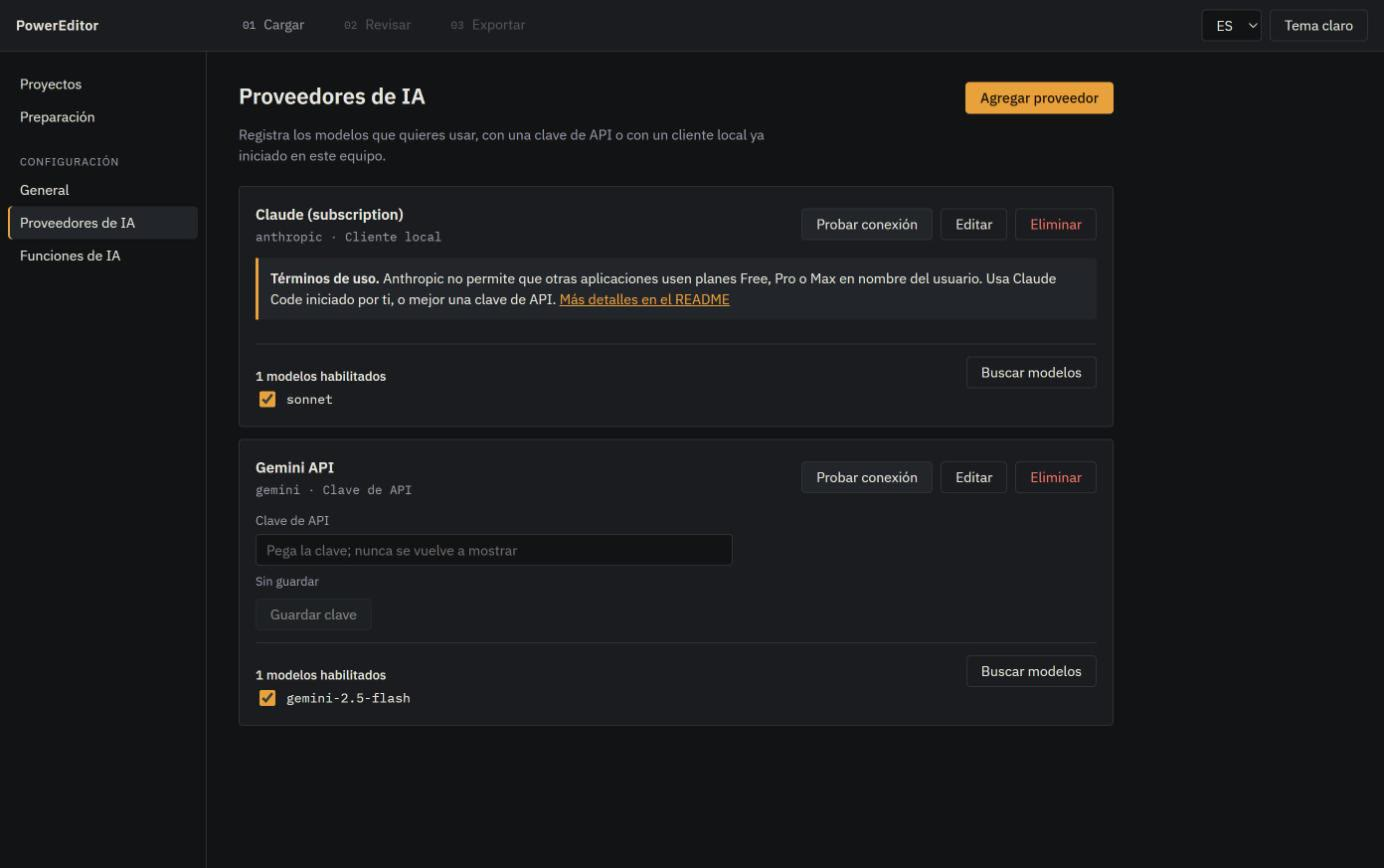
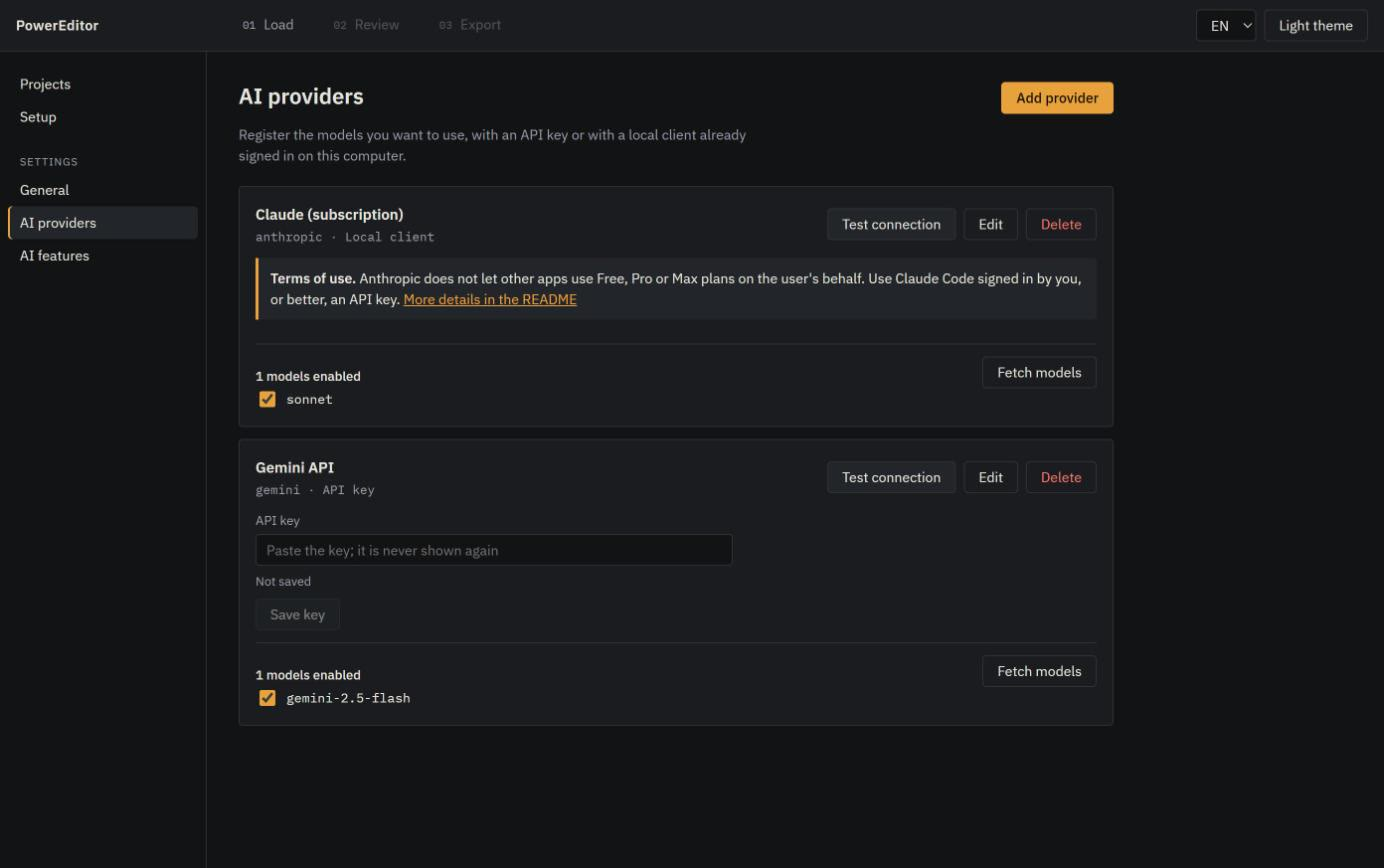
docs: retake README screenshots with the UI in English

diff --git a/README.md b/README.md
@@ -49,17 +49,17 @@ Talking-head videos (reels, tutorials, course lessons, YouTube) are cheap to rec
 
 ## Screenshots
 
-The app runs in your browser against the local PowerEditor server. The interface is in Spanish by default, with English one click away.
+The app runs in your browser against the local PowerEditor server. The interface speaks English and Spanish; the screenshots show it in English.
 
 **Review.** The timeline shows which source file is used when (one color per file), a badge on clips that have alternative takes, and the subtitle line. The preview player sits above it. Pick a clip to trim it by 0.1 s, change its speed or volume, remove or restore it, or switch to another take (the badge opens the take list; Alt-click cycles takes). Side panels set the transition of each cut or one for all cuts, the subtitle style and text, the audio (voice and music volume, a music file that ducks under speech, matched loudness between recordings) and the color (natural, warm, cool or black-and-white looks, four sliders, for every clip or one clip, and the automatic match between cameras). Every change is undoable (Ctrl+Z / Ctrl+Shift+Z) and saved automatically.
 
 ![Review step with timeline, take badge and source legend](docs/screenshots/review.jpg)
 
-**What comes out.** Frames from a real render of the demo project: karaoke subtitles follow each word, and the cut moves to the second camera on its own.
+**What comes out.** Frames from a real render of the demo project: karaoke subtitles follow each word, graphics animate in over the video (title, lower third, call to action, logo, progress bar), and the cut moves to the second camera on its own.
 
-| Source A, karaoke highlight                                                   | Source B after a cut                                                                |
-| ----------------------------------------------------------------------------- | ----------------------------------------------------------------------------------- |
-| ![Rendered frame with karaoke subtitles](docs/screenshots/output-karaoke.jpg) | ![Rendered frame from the second source](docs/screenshots/output-second-source.jpg) |
+| Title and karaoke subtitles                                                               | Lower third                                                                   | Call to action on the second camera                                                |
+| ----------------------------------------------------------------------------------------- | ----------------------------------------------------------------------------- | ---------------------------------------------------------------------------------- |
+| ![Rendered frame with a title and karaoke subtitles](docs/screenshots/output-karaoke.jpg) | ![Rendered frame with a lower third](docs/screenshots/output-lower-third.jpg) | ![Rendered frame with a call to action](docs/screenshots/output-second-source.jpg) |
 
 **Load.** Drop the recordings, pick Reel or YouTube format, optionally paste the script, and press Process.
 

diff --git a/odd/tasks/powereditor-app.md b/odd/tasks/powereditor-app.md
@@ -149,12 +149,15 @@ Reviewed boundary: `f35332a` (phase-0).
 - HyperFrames research (user request): Apache-2.0; adopted as Phase 9b (overlay/caption looks, export quality presets, RAM-aware concurrency), Phase 10 additions (error hints, memory ceiling, LICENSE + THIRD_PARTY_NOTICES), and a backlog (overlay-only render + ffmpeg composite, Parakeet, carve ducking, shader transitions, matted captions). Open user decision: project license.
 
 ### Slice 9b — `feat/phase-9b-looks`
-- [ ] 9c Retake README screenshots with the UI in English (user rule: docs and screenshots in English) after 9b merges.
+- [x] 9c Retake README screenshots with the UI in English (user rule: docs and screenshots in English) after 9b merges.
 - [x] 9b Overlay variants and caption presets inspired by HyperFrames, export quality presets, RAM-aware render concurrency, Phase 9 follow-ups.
 
 - PR #12 (phase 9) merged after green CI.
 - 9b done (delegated): overlay variants (title headline_slam; lower third kicker_name/mask_reveal/soft_pill; CTA lockup/close) + new templates count_up and progress_ring; subtitle presets pill_karaoke, kinetic_slam, emoji_pop, editorial_emphasis (ASS fallbacks); export quality draft/standard/high; RAM-aware concurrency (7 on this machine, frames cap); Phase 9 follow-ups (upload reset, typed invalid audio errors, null overlay props, drag cancel). No HyperFrames code copied (designs ported). Evidence: pytest 568, vitest 246 (parent re-run); draft render -41% vs standard; concurrency 6 vs 7 no measurable change on an 8 s clip.
 - Follow-ups: kinetic_slam landing overlap; re-measure concurrency on long/low-RAM timelines; optional `Project.language` for stopwords.
 
+- PR #13 (9b) merged (a CI-only flaky test pinned the core count; fixed in a follow-up commit before merge).
+- 9c done: README screenshots retaken with the UI in English (review, load, providers, features, setup) and English render frames (title + karaoke, lower third, CTA). Found and fixed while capturing: Graphics track drew overlapping overlays on one lane and let long overlays overflow the timeline (now lane packing + clipping with a "continues" edge, and a click without movement no longer truncates); plural strings ("1 models enabled") via `key.one`/`key.other`. Evidence: vitest web 165.
+
 ## Next step
-PR for 9b, then 9c (English screenshots); Phase 10 needs the license decision.
+PR for 9c, then Phase 10 (needs the license decision).
